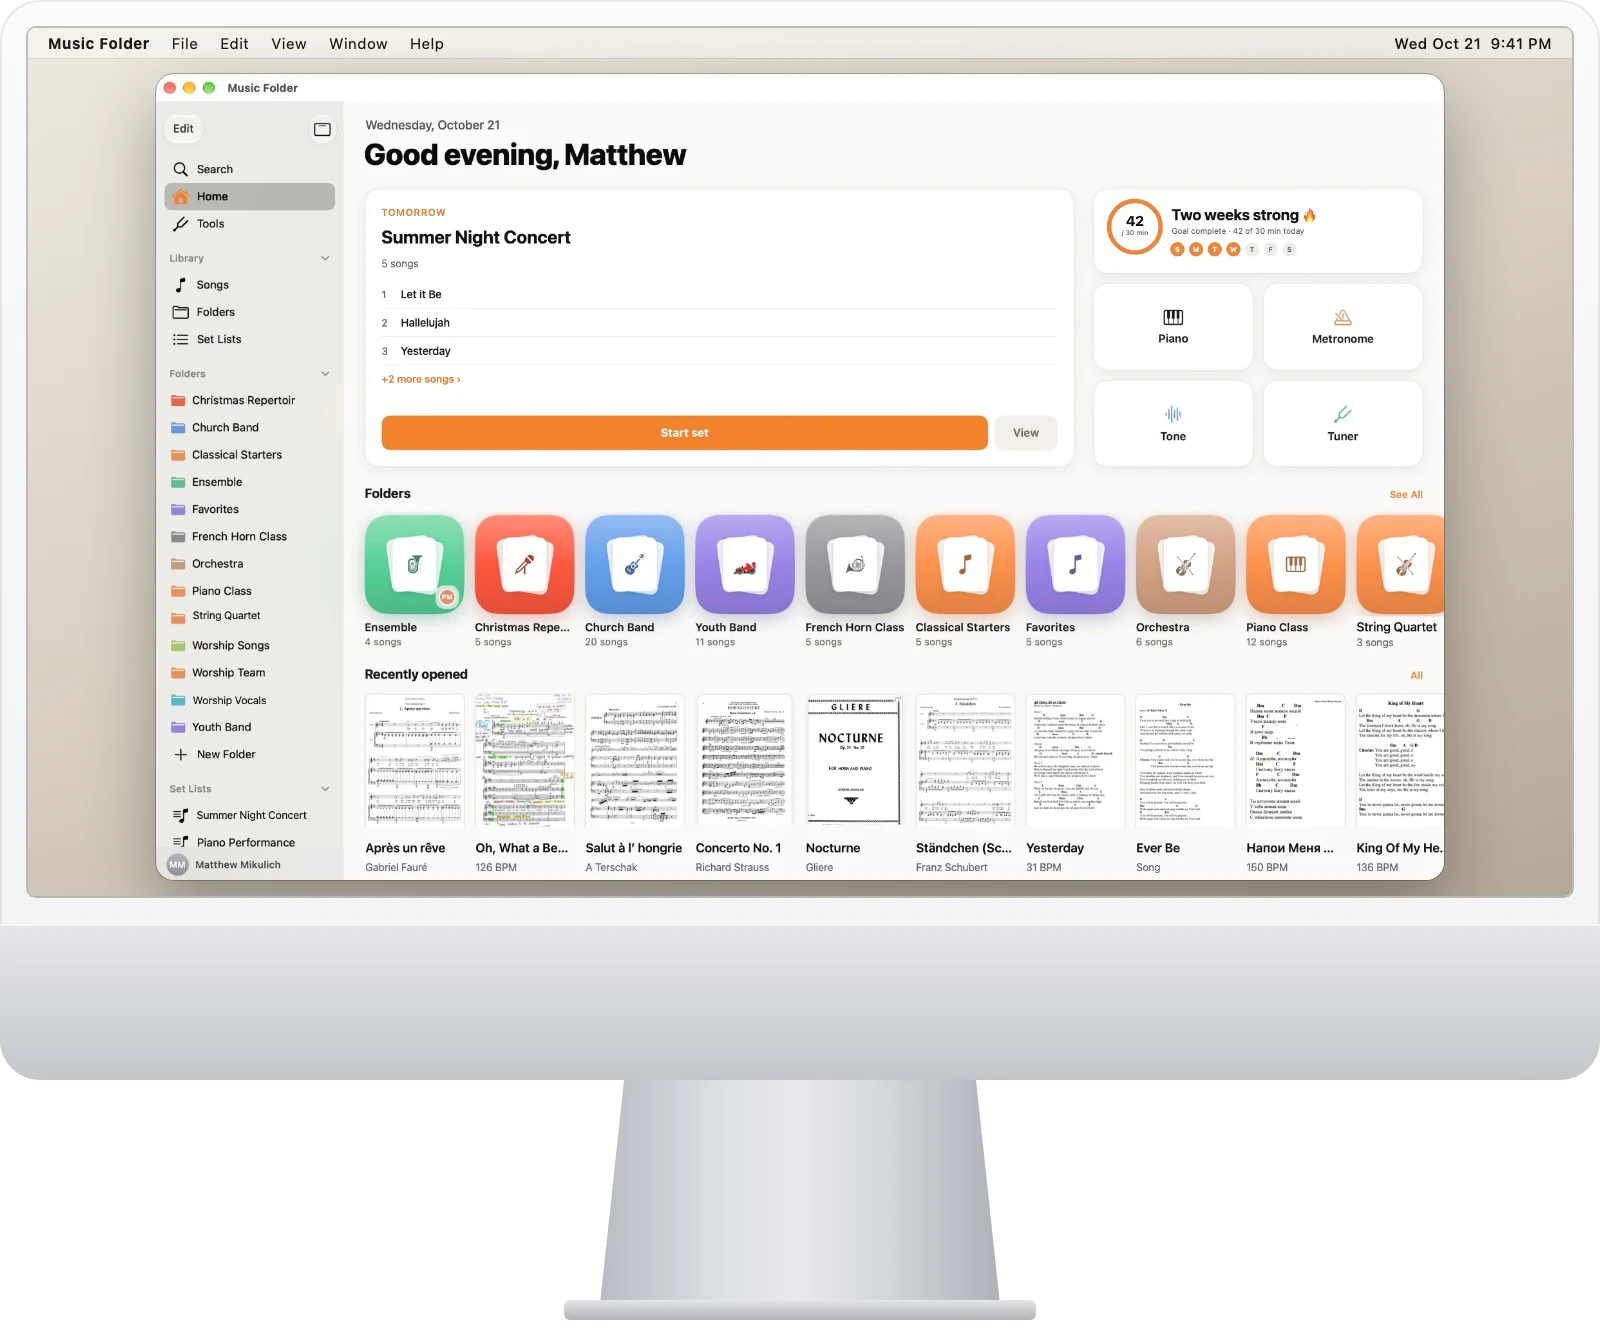
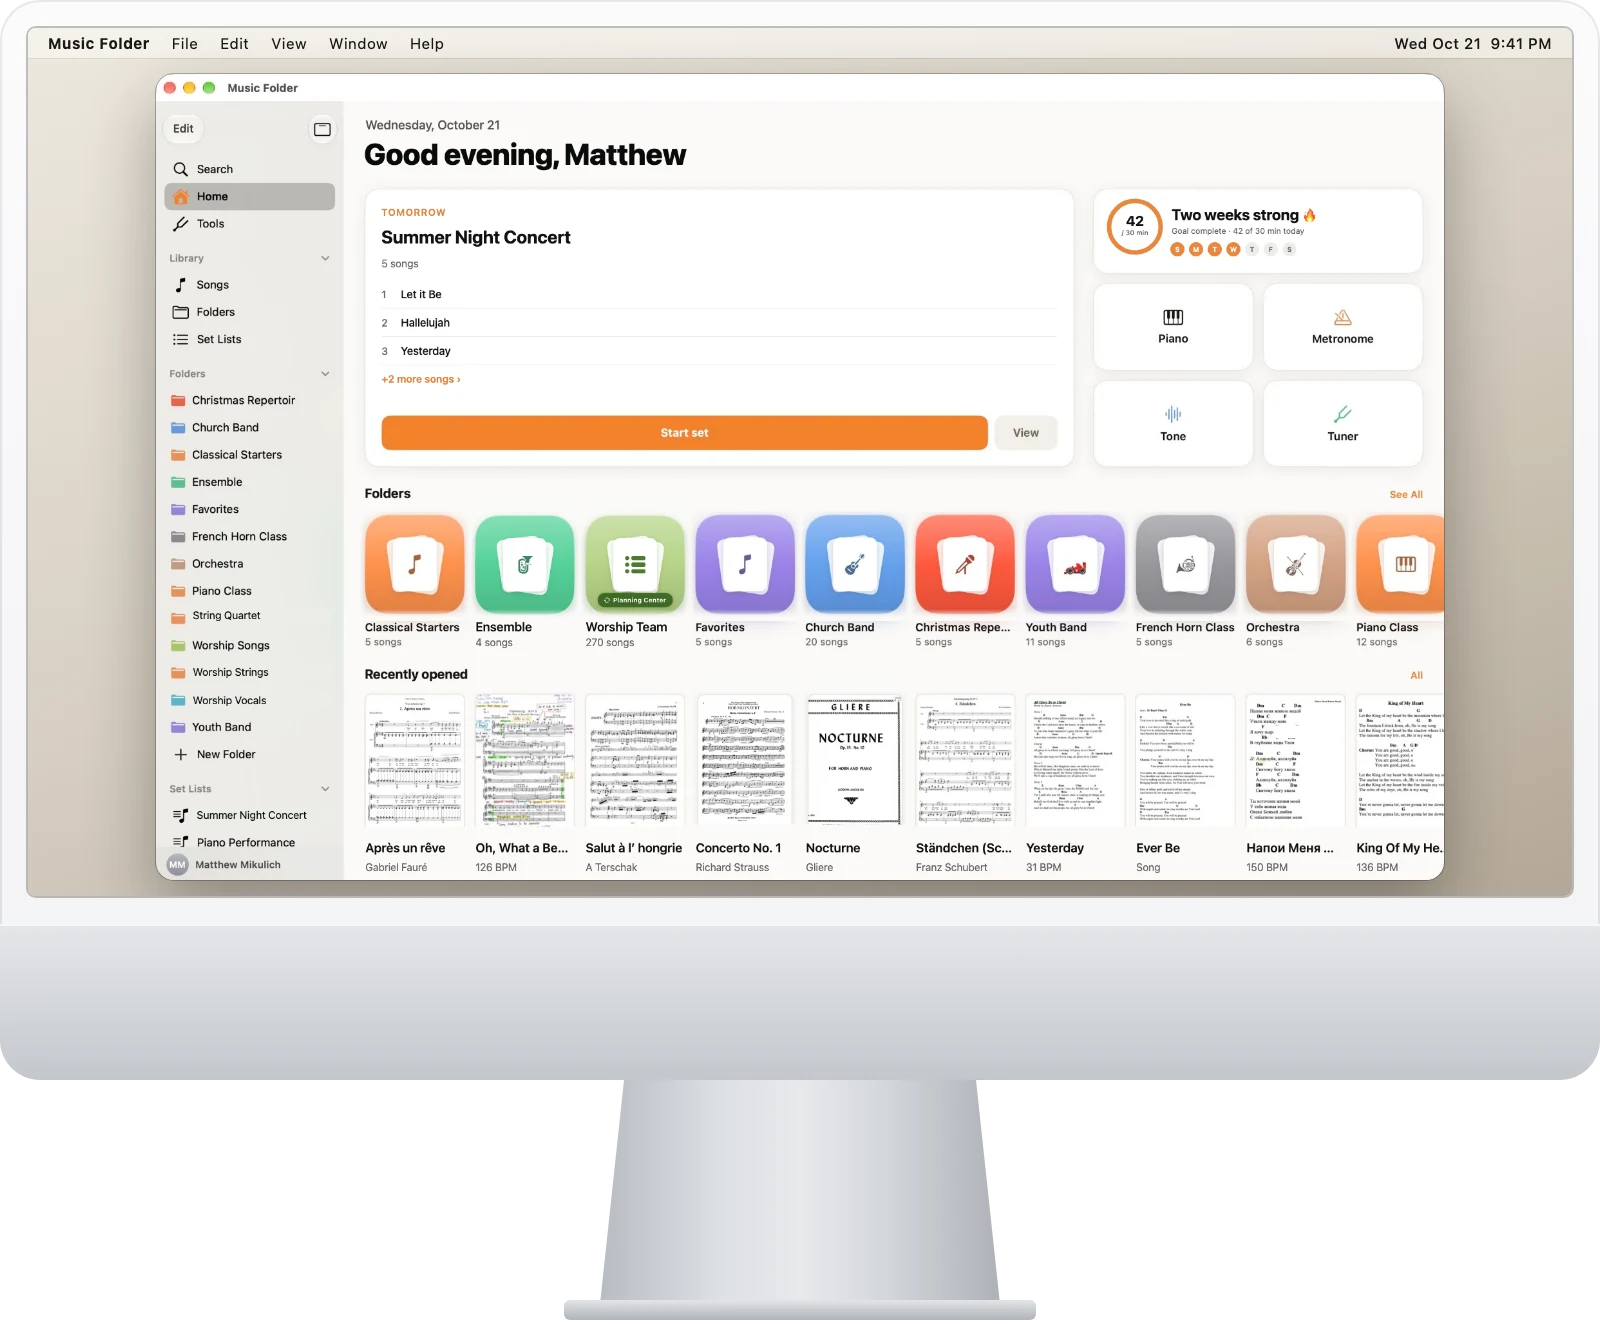
Home: Mac folder row matches the iPad
Same order (Classical Starters, Ensemble, Worship Team via Planning Center,
Favorites, Church Band, Christmas Repertoire, …); the sidebar's own
Worship Team folder is renamed so the name isn't shown twice.

diff --git a/index.html b/index.html
@@ -406,7 +406,7 @@
 <section class="section devices dark-band">
   <div class="wrap devices-grid">
     <div class="devices-pair reveal">
-      <img class="dp-mac" src="assets/home-mac.webp?v=2" alt="Music Folder on a Mac: the home screen with the sidebar of folders and set lists, the next set list, practice goal, tools and recently opened scores" width="800" height="664" loading="lazy">
+      <img class="dp-mac" src="assets/home-mac.webp?v=3" alt="Music Folder on a Mac: the home screen with the sidebar of folders and set lists, the next set list, practice goal, tools and recently opened scores" width="800" height="664" loading="lazy">
       <img class="dp-ipad" src="assets/home-ipad.webp?v=4" alt="The Music Folder home screen on iPad: tomorrow's concert set list, a practice streak, quick tools, folders and recently opened scores" width="600" height="851" loading="lazy">
       <img class="dp-iphone" src="assets/home-iphone.webp?v=3" alt="The same home screen on iPhone, with the practice streak and tomorrow's set list" width="396" height="830" loading="lazy">
     </div>
